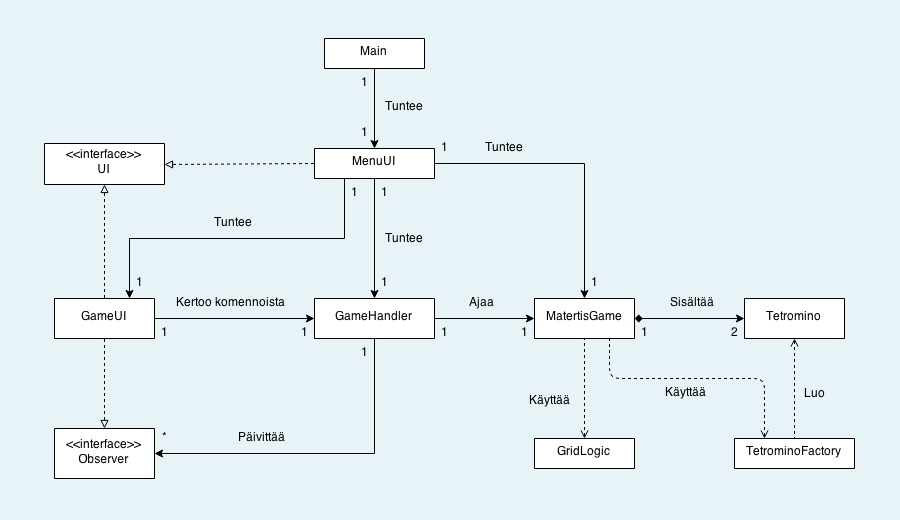
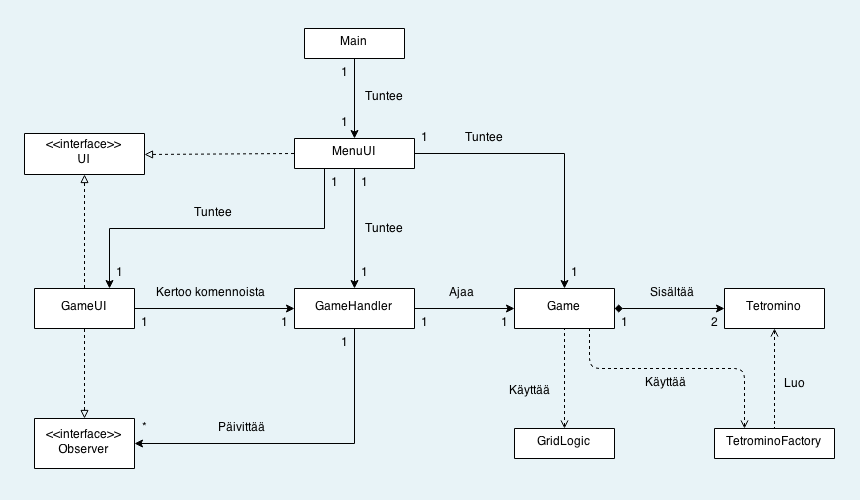
Dokumentaation kirjoittamista ja refaktorointia. Luokkakaaviota myös korjattu.

diff --git a/Matertis/src/main/java/com/github/tilastokeskus/matertis/core/GameHandler.java b/Matertis/src/main/java/com/github/tilastokeskus/matertis/core/GameHandler.java
@@ -10,28 +10,51 @@ import java.util.logging.Level;
 import java.util.logging.Logger;
 
 /**
- *
+ * Provides fundamental functionality to control the flow of a game. This class
+ * controls the game's time and user command related tasks.
+ * <p>
+ * All user commands should be redirected to the game through an instance of
+ * this class.
+ * 
  * @author tilastokeskus
+ * @see    Game
  */
 public class GameHandler extends Observable {
     
-    private static final Logger LOGGER = Logger.getLogger(MatertisGame.class.getName());    
+    private static final Logger LOGGER = Logger.getLogger(Game.class.getName());    
     private static final long INITIAL_REFRESH_RATE = 1000L;
 
-    private final MatertisGame game;
+    private final Game game;
     private ScheduledExecutorService roundExecutor;
     private long refreshRate;
     
-    public GameHandler(MatertisGame game) {
+    /**
+     * Creates a new GameHandler instance and registers the provided game
+     * instance as the one to be handled.
+     * 
+     * @param game A {@link Game} instance to be registered.
+     */
+    public GameHandler(Game game) {
         this.game = game;
         this.roundExecutor = Executors.newSingleThreadScheduledExecutor();
         this.refreshRate = INITIAL_REFRESH_RATE;
     }
     
-    public MatertisGame getRegisteredGame() {
+    public Game getRegisteredGame() {
         return this.game;
     }
     
+    /**
+     * Handles a user command in the form of a keyCode returned by a KeyEvent.
+     * This method interprets the command and redirects a concrete action to the
+     * registered Game instance.
+     * <p>
+     * This method also notifies all observers.
+     * 
+     * @param keyCode An integer key code returned by a KeyEvent.
+     * @see   KeyEvent
+     * @see   java.util.Observer
+     */
     public void handleKeyCode(int keyCode) {
         switch (keyCode) {
             case KeyEvent.VK_LEFT:

diff --git a/Matertis/src/main/java/com/github/tilastokeskus/matertis/core/Game.java b/Matertis/src/main/java/com/github/tilastokeskus/matertis/core/Game.java
@@ -4,7 +4,7 @@ package com.github.tilastokeskus.matertis.core;
 import com.github.tilastokeskus.matertis.util.TetrominoFactory;
 
 /**
- * Represents a single game instance.
+ * Provides the necessary logic to play the game.
  * <p>
  * This class holds information of the game's state and provides basic
  * functionality to retrieve that information, and to play a round of the game.
@@ -18,7 +18,7 @@ import com.github.tilastokeskus.matertis.util.TetrominoFactory;
  * 
  * @author tilastokeskus
  */
-public class MatertisGame {
+public class Game {
     
     private final int[][] grid;
     
@@ -32,7 +32,7 @@ public class MatertisGame {
      * @param width  The width of the game area.
      * @param height The height of the game area.
      */
-    public MatertisGame(int width, int height) {
+    public Game(int width, int height) {
         this.grid = new int[height][width];
         this.fallingTetromino = TetrominoFactory.getNewTetromino();        
         this.nextTetromino = TetrominoFactory.getNewTetromino();

diff --git a/Matertis/src/main/java/com/github/tilastokeskus/matertis/action/StartGameAction.java b/Matertis/src/main/java/com/github/tilastokeskus/matertis/action/StartGameAction.java
@@ -2,7 +2,7 @@
 package com.github.tilastokeskus.matertis.action;
 
 import com.github.tilastokeskus.matertis.core.GameHandler;
-import com.github.tilastokeskus.matertis.core.MatertisGame;
+import com.github.tilastokeskus.matertis.core.Game;
 import com.github.tilastokeskus.matertis.ui.GameUI;
 import java.awt.event.ActionEvent;
 import javax.swing.AbstractAction;
@@ -20,7 +20,7 @@ public class StartGameAction extends AbstractAction {
     
     @Override
     public void actionPerformed(ActionEvent e) {
-        MatertisGame logic = new MatertisGame(10, 20);
+        Game logic = new Game(10, 20);
         GameHandler handler = new GameHandler(logic);
         GameUI ui = new GameUI("New Game", handler);        
         

diff --git a/Matertis/src/main/java/com/github/tilastokeskus/matertis/ui/GamePanel.java b/Matertis/src/main/java/com/github/tilastokeskus/matertis/ui/GamePanel.java
@@ -1,7 +1,7 @@
 
 package com.github.tilastokeskus.matertis.ui;
 
-import com.github.tilastokeskus.matertis.core.MatertisGame;
+import com.github.tilastokeskus.matertis.core.Game;
 import com.github.tilastokeskus.matertis.core.Tetromino;
 import java.awt.BasicStroke;
 import java.awt.Color;
@@ -30,9 +30,9 @@ public class GamePanel extends JPanel {
     private static final int PADDING = 4;
     private static final int SQUARE_SIZE = 16;
 
-    private MatertisGame game;
+    private Game game;
     
-    public GamePanel(MatertisGame game) {
+    public GamePanel(Game game) {
         this.game = game;
         this.setBackground(new Color(40, 40, 40));
     }
